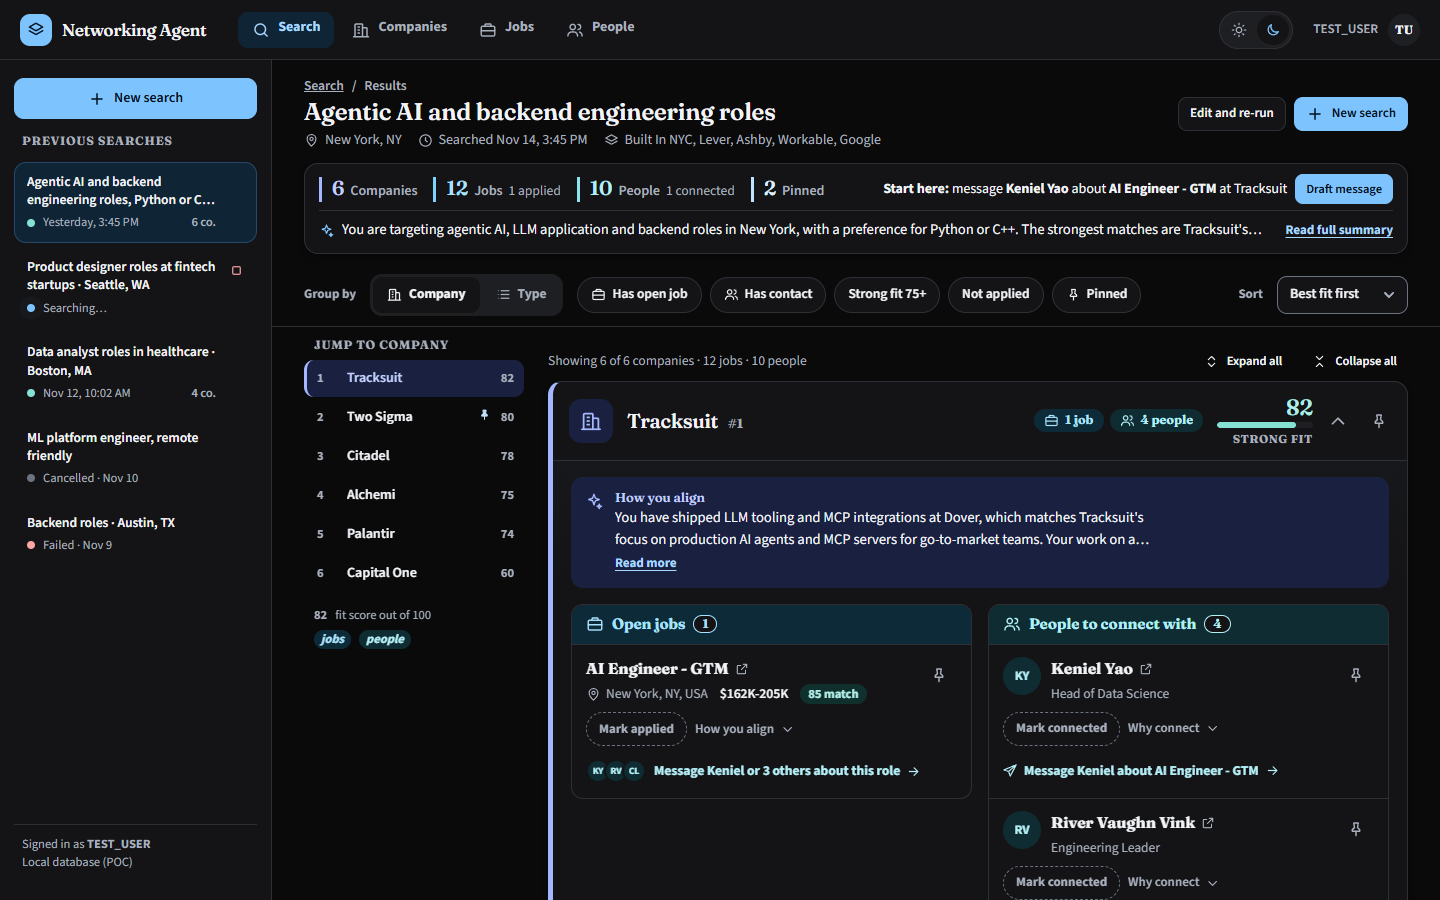
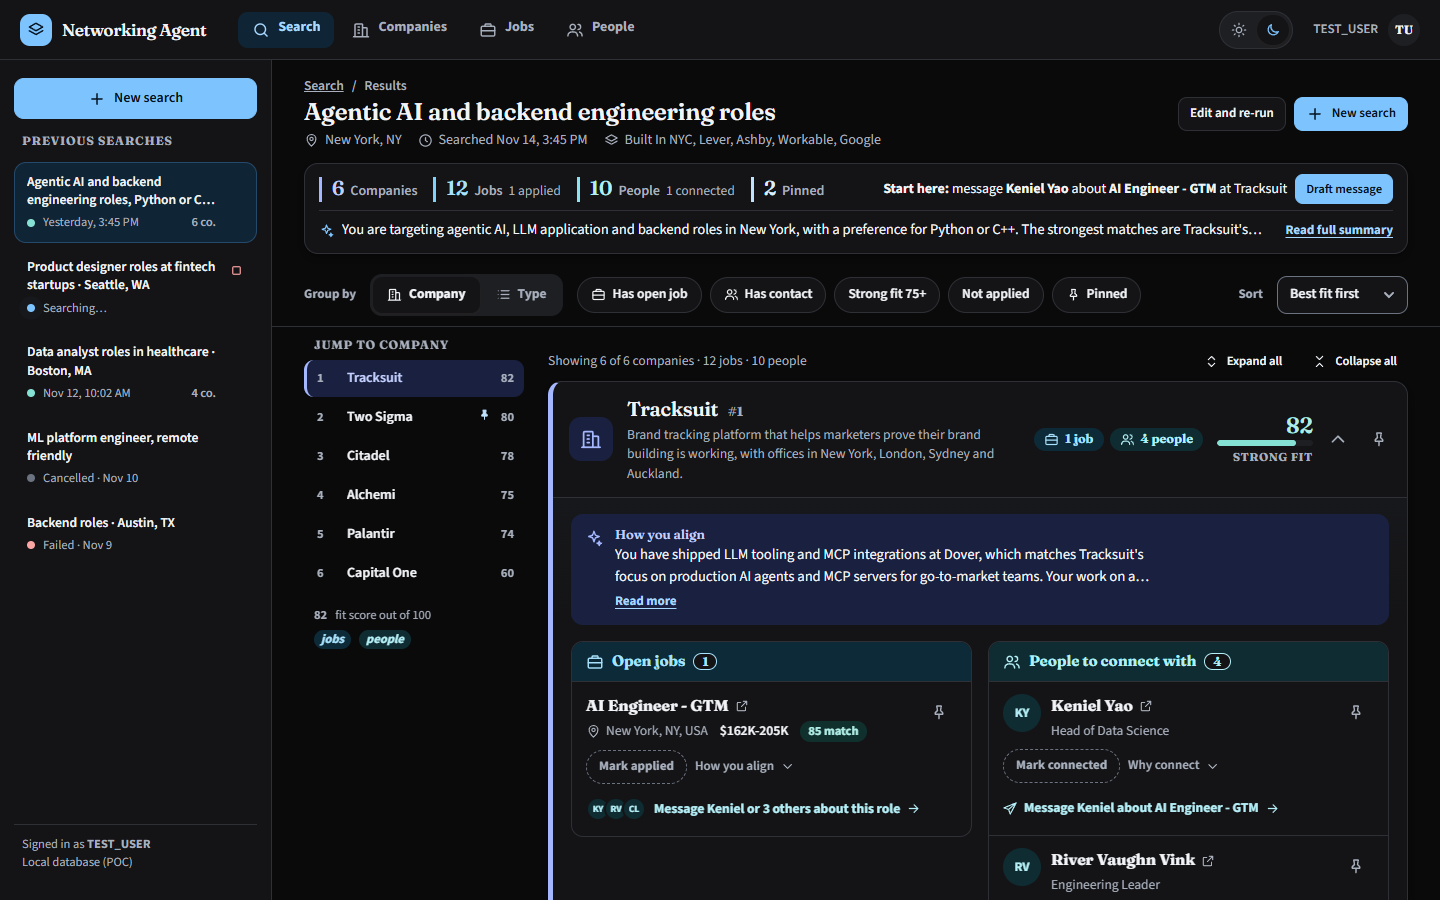
docs: show company description under the name in expanded Map·Linen panels
Previously the description was hidden when a company panel opened; now it
wraps in full beneath the name (body font), while collapsed rows keep the
one-line truncated version. Previews regenerated.

Changed region(s): [[0.375, 0.4356, 0.9688, 1.0]]

diff --git a/docs/ui_drafts_v2/04-map-linen/theme.css b/docs/ui_drafts_v2/04-map-linen/theme.css
@@ -207,8 +207,8 @@ select{appearance:none;background-image:var(--sel-arrow);background-repeat:no-re
 .cname .cn{font:600 20px/1.25 var(--head);letter-spacing:-.01em;color:var(--text)}
 .chead h3{flex:1;min-width:0;font-size:inherit;font-weight:inherit}
 .rank{font:700 13px var(--head);color:var(--text2)}
-.cdesc{display:block;font-size:13.5px;color:var(--text2);white-space:nowrap;overflow:hidden;text-overflow:ellipsis;margin-top:2px}
-.co-panel[data-open=true] .cdesc{display:none}
+.cdesc{display:block;font-family:var(--body);font-weight:400;letter-spacing:0;font-size:13.5px;color:var(--text2);white-space:nowrap;overflow:hidden;text-overflow:ellipsis;margin-top:2px}
+.co-panel[data-open=true] .cdesc{white-space:normal;overflow:visible;text-overflow:clip;margin-top:4px;line-height:1.45;max-width:62ch}
 .cbest{font-size:13.5px;margin-top:3px;display:flex;gap:6px;align-items:center;color:var(--text);flex-wrap:wrap}
 .cbest .i{color:var(--job)}
 .cbest .bt{min-width:0;overflow:hidden;text-overflow:ellipsis;white-space:nowrap}
